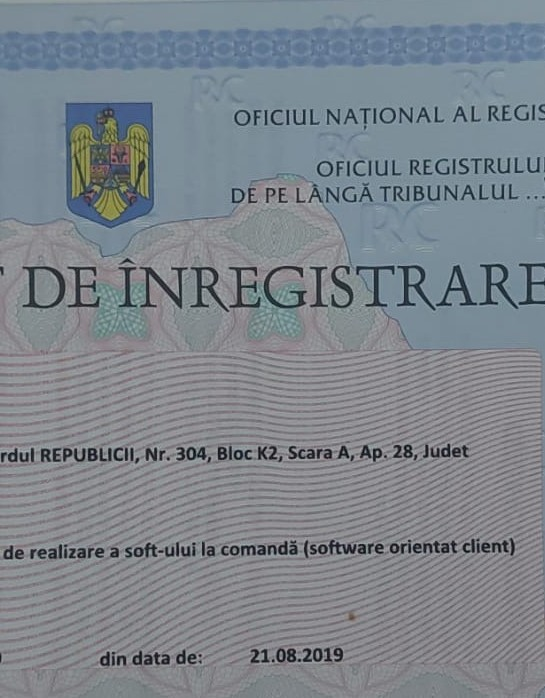
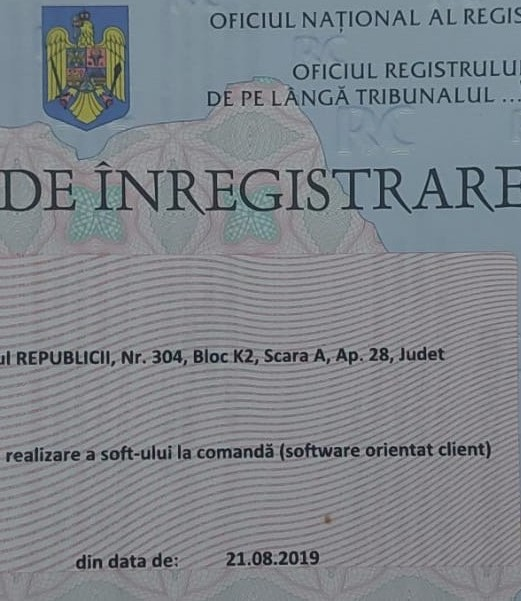
updated SEO

Changed region(s): [[0.0, 0.0, 1.0, 0.9584]]

diff --git a/src/data/site/testimonials.ts b/src/data/site/testimonials.ts
@@ -6,20 +6,20 @@ export const testimonials: Testimonial[] = [
     position: "Managing Director",
     company: "Textmimedia",
     content: "His dedication and perseverance are truly outstanding. He brought a positive outlook to every challenge, especially when it came to hiring and managing our project team and resources, ensuring we always had the right talent to succeed.",
-    link: "https://www.linkedin.com/in/james-morris-textmimedia"
+    link: "https://wwww.linkedin.com/in/james-morris-31a85451a"
   },
   {
     name: "Robert Nicoara",
     position: "DevOps & Cloud Engineer",
     company: "Proto Spark",
     content: "Andrei is a highly skilled professional in software development. His ability to architect and implement robust solutions while maintaining high standards of code quality and performance was instrumental to the projects's technical progress.",
-    link: "https://www.linkedin.com/in/robertnicoara"
+    link: "https://www.linkedin.com/in/robert-nicoara-588a3677"
   },
   {
     name: "Gabriel Albina",
     position: "Business Developer",
     company: "CBS",
     content: "He has a unique talent for business development leveraging IT advancements. The strategic approach to integrating technology into business workflows has significantly enhanced our operational efficiency and market positioning.",
-    link: "https://www.linkedin.com/in/gabrielalbina"
+    link: "https://www.linkedin.com/in/claudiualbina"
   }
 ];

diff --git a/src/data/site/personal.ts b/src/data/site/personal.ts
@@ -8,6 +8,7 @@ export const personalInfo = {
   signal: "shdx.01",
   cv_pdf: "cv.pdf",
   cv_latex: "cv-latex.zip",
+  site_url: "https://straja.org",
   pgp_fingerprint: "EC5961CAF33949D300D1530FC955DF8349BC0C31",
   pgp_key_url: "https://keys.openpgp.org/search?q=andrei@straja.org",
 };
